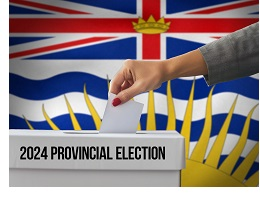
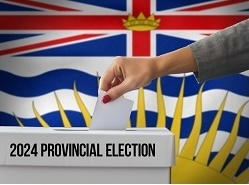
updated vote

diff --git a/notify/2024/10/ProvElection/index.html b/notify/2024/10/ProvElection/index.html
@@ -10,7 +10,7 @@
       <center>
          <img src="https://our.stgeorge.ca/notify/2024/10/ProvElection/BC-Provincial-Election.jpg" 
             alt="Summer Nady Gift Distribution" 
-            style="width: 200px;"/>
+            style="width: 250px;"/>
       </center>
       <p>
          As responsible citizens of Canada, we have the privilege to vote in the 
@@ -18,8 +18,8 @@
          Advance voting is available on <b>October 10-13, 15, and 16</b>.
       </p>
       <p>
-         We strongly urge all members of the St. George Coptic Orthodox Church 
-         to exercise your right to vote in this important election. 
+         We strongly urge each member of the St. George Coptic Orthodox Church 
+         to exercise his/her right to vote in this important election. 
          The outcome will  impact our daily lives and the future of our children.
       </p>
    </div>
